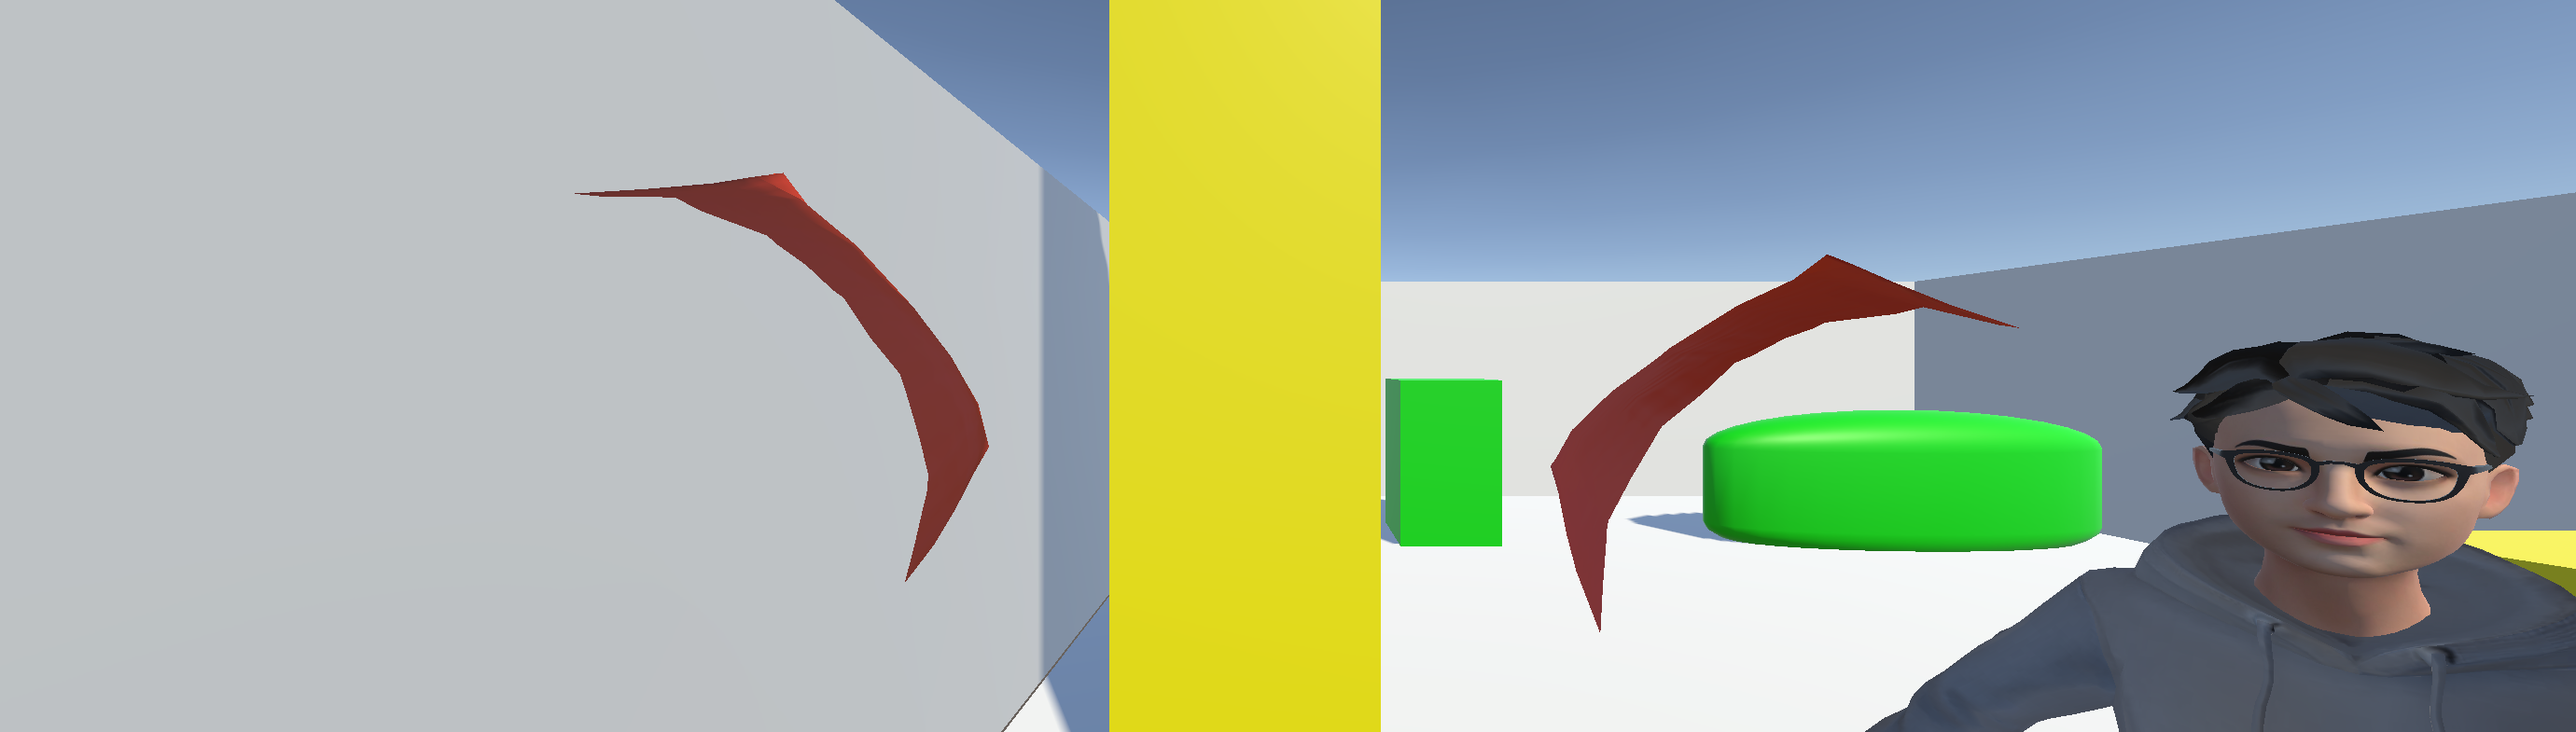
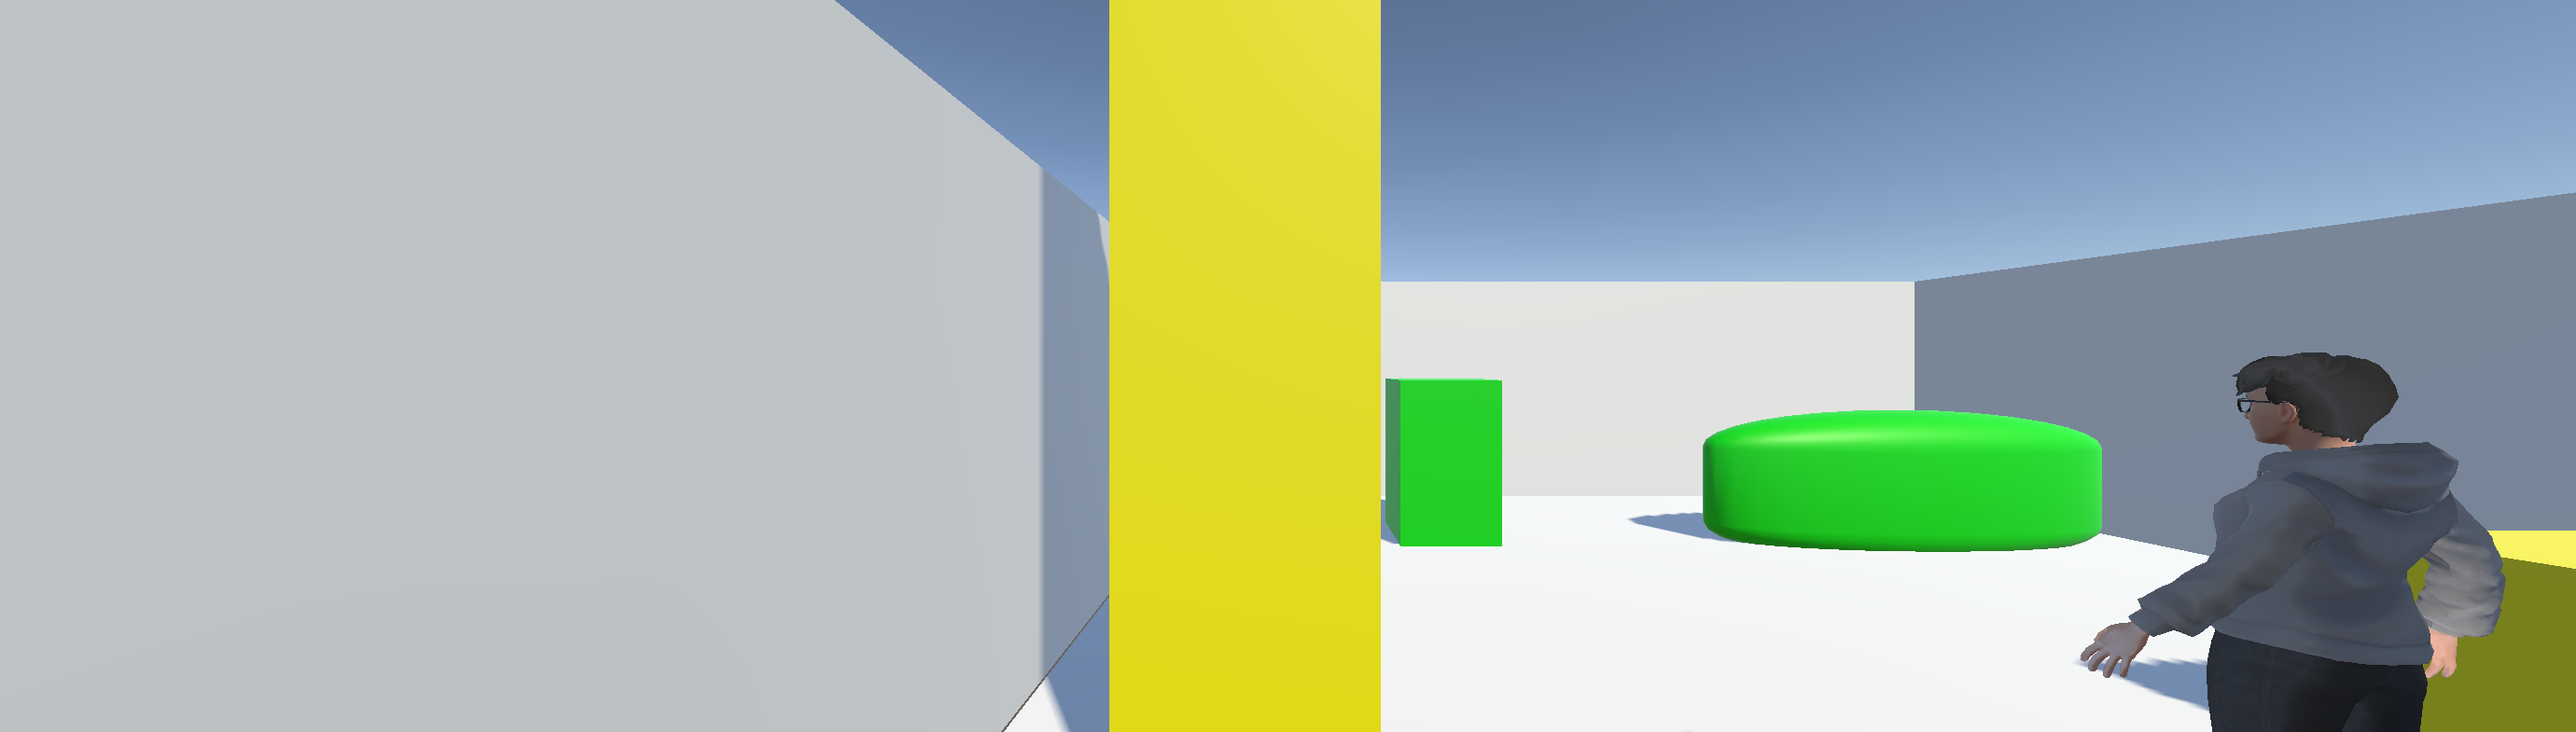
final guide follow positions set up

Changed region(s): [[0.7164, 0.428, 1.0, 1.0], [0.5918, 0.3363, 0.7787, 0.8561], [0.218, 0.2446, 0.4049, 0.7643]]

diff --git a/Assets/Scripts/GuideFollow.cs b/Assets/Scripts/GuideFollow.cs
@@ -9,46 +9,125 @@ public class GuideFollow : MonoBehaviour
     // Variables to hold scripts / components we need access to
     private SharedMovement m_SharedMovementScript;
     private RealtimeTransform realtimeTransform;
+    private AIGuide m_AIGuideScript;
 
     // Variables to control guide's following movements
     private float followDistance = 1.5f;
     private float followSpeed = 5.0f;
+    private float rotationSpeed = 5.0f; // might be causing the bouncy issue?
+    private float heightOffset = 0.2f;
+    public float guideHeight = 0f;
+    public float playerHeight = 0f;
+
+    // Agents and Game Objects
+    private NavMeshAgent agent;
+    private GameObject theGuide;
+    private GameObject thePlayer;
 
     // Monitoring bools
     private bool sharedMovementFound = false;
+    private bool aiGuideFound = false;
 
     private void Start()
     {
-        NavMeshAgent navMeshAgent = GetComponent<NavMeshAgent>();
-        if (navMeshAgent == null)
-            gameObject.AddComponent<NavMeshAgent>();
+        // Find or add necessary components
+        agent = gameObject.AddComponent<NavMeshAgent>();
+
+        gameObject.AddComponent<GuideModels>();
     }
     // Update is called once per frame
     void Update()
     {
-        // Calls until the shared movement script is assigned (when we have a player and a guide)
+        // Calls until the shared movement and AI Guide scripts are assigned (when we have a player and a guide)
         getSharedMovement();
+        getAIGuide();
+
         // Wait to request ownership until we have all players in scene + multiplayer room is definitely instantiated
         if (sharedMovementFound)
             requestOwnershipForGuide();
 
+        if (aiGuideFound && sharedMovementFound)
+        {
+            guideHeight = getAvatarHeight(theGuide);
+            playerHeight = getAvatarHeight(thePlayer);
+        }
+
         if (sharedMovementFound)
         {
-            AIGuide guide = FindObjectOfType<AIGuide>();
-            if (guide != null)
+            if (theGuide != null && thePlayer != null) // Making sure code is not run until both player and guide are in the scene
             {
-                if (m_SharedMovementScript.thePlayer != null)
+                // Set target position and rotation based on role
+                Vector3 targetPosition = theGuide.transform.position;
+                Quaternion targetRotation = theGuide.transform.rotation;
+
+                // Humanoid follow position - trailing after the player and facing them
+                if (m_AIGuideScript.role == 1 || m_AIGuideScript.role == 2)
                 {
                     // Calculate the target position based on the player's position and follow distance
-                    Vector3 directionToPlayer = (m_SharedMovementScript.thePlayer.transform.position - transform.position).normalized;
-                    Vector3 targetPosition = m_SharedMovementScript.thePlayer.transform.position - directionToPlayer * followDistance;
+                    Vector3 directionToPlayer = (thePlayer.transform.position - transform.position).normalized;
+                    targetPosition = thePlayer.transform.position - directionToPlayer * followDistance;
 
                     // Move towards the target position
                     transform.position = Vector3.MoveTowards(transform.position, targetPosition, followSpeed * Time.deltaTime);
 
                     // Make the guide look at the player while moving
-                    transform.LookAt(m_SharedMovementScript.thePlayer.transform);
+                    transform.LookAt(thePlayer.transform);
                 }
+
+                // Cane follow position - moving in front of the player and facing away
+                if (m_AIGuideScript.role == 3)
+                {
+                    // Calculate the position in front of the player
+                    Vector3 offset = thePlayer.transform.forward * followDistance;
+                    targetPosition = thePlayer.transform.position + offset;
+
+                    // Rotate to face away from the player (same direction the player is looking)
+                    targetRotation = thePlayer.transform.rotation;
+                }
+
+                // Dog follow position - moving at the right side of the player and facing the same direction as them
+                if (m_AIGuideScript.role == 4)
+                {
+                    // Calculate the position on the right side of the player
+                    Vector3 offset = thePlayer.transform.right * followDistance;
+                    targetPosition = thePlayer.transform.position + offset;
+
+                    // Rotate to face the same direction as the player
+                    targetRotation = thePlayer.transform.rotation;
+                }
+
+                // Bird and invisible guide follow position - moving at the right of the player's head and facing the same direction as them
+                if (m_AIGuideScript.role == 5 || m_AIGuideScript.role == 6)
+                {
+                    // Calculate the position to the right of the player, at the appropriate height
+                    Vector3 offset = thePlayer.transform.right * (followDistance * 0.5f);
+                    targetPosition = thePlayer.transform.position + offset + Vector3.up * (playerHeight + heightOffset - guideHeight / 2);
+                    transform.position = new Vector3(transform.position.x, transform.position.y + 1f, transform.position.z);
+
+                    // Rotate to face the same direction as the player
+                    targetRotation = thePlayer.transform.rotation;
+                }
+
+                if (agent.isOnNavMesh)
+                    agent.SetDestination(targetPosition);
+                else
+                {
+                    Debug.LogWarning("NavMeshAgent is not on the NavMesh. Trying to fix it.");
+
+                    // Attempt to place the agent on the NavMesh
+                    NavMeshHit hit;
+                    if (NavMesh.SamplePosition(transform.position, out hit, 1.0f, NavMesh.AllAreas))
+                    {
+                        transform.position = hit.position;
+                        agent.Warp(hit.position);
+                        agent.SetDestination(targetPosition);
+                    }
+                    else
+                        Debug.LogError("Failed to place NavMeshAgent on the NavMesh.");
+                }
+
+                // Smoothly rotate towards the target rotation
+                transform.rotation = Quaternion.Slerp(transform.rotation, targetRotation, rotationSpeed * Time.deltaTime);
             }
         }
     }
@@ -59,6 +138,17 @@ public class GuideFollow : MonoBehaviour
             m_SharedMovementScript = FindObjectOfType<SharedMovement>();
         else
             sharedMovementFound = true;
+
+        theGuide = m_SharedMovementScript.theGuide;
+        thePlayer = m_SharedMovementScript.thePlayer;
+    }
+
+    private void getAIGuide()
+    {
+        if (m_AIGuideScript == null)
+            m_AIGuideScript = FindObjectOfType<AIGuide>();
+        else
+            aiGuideFound = true;
     }
 
     private void requestOwnershipForGuide()
@@ -73,5 +163,21 @@ public class GuideFollow : MonoBehaviour
             if (realtimeTransform != null)
                 realtimeTransform.RequestOwnership();
         }
+    }
+
+    float getAvatarHeight(GameObject avatar)
+    {
+        SkinnedMeshRenderer[] renderers = theGuide.GetComponentsInChildren<SkinnedMeshRenderer>();
+        if (renderers.Length == 0)
+        {
+            Debug.LogWarning("No renderers found on the object.");
+            return 0;
+        }
+
+        Bounds combinedBounds = renderers[0].bounds;
+        foreach (SkinnedMeshRenderer renderer in renderers)
+            combinedBounds.Encapsulate(renderer.bounds);
+
+        return combinedBounds.size.y;
     }
 }

diff --git a/Assets/Scripts/GuideModels.cs b/Assets/Scripts/GuideModels.cs
@@ -1,0 +1,69 @@
+using System.Collections;
+using System.Collections.Generic;
+using UnityEngine;
+
+public class GuideModels : MonoBehaviour
+{
+    // Variables to hold scripts / components we need access to
+    private SharedMovement m_SharedMovementScript;
+    private AIGuide m_AIGuideScript;
+
+    // Game Objects we use to manage guide appearance
+    private GameObject theGuide;
+
+    // Start is called before the first frame update
+    void Start()
+    {
+        
+    }
+
+    // Update is called once per frame
+    void Update()
+    {
+        // Calls until the shared movement and AI Guide scripts are assigned (when we have a player and a guide)
+        getSharedMovement();
+        getAIGuide();
+
+        // If we have the guide and access to its role, we can alter appearances
+        if (theGuide != null && m_AIGuideScript != null)
+        {
+            // If invisible, disabled renderers - enable them otherwise
+            if (m_AIGuideScript.role == 6)
+                DisableRenderers(theGuide);
+            else
+                EnableRenderers(theGuide);
+
+            // Code for switching between models / animations based on role
+        }
+    }
+
+    private void getSharedMovement()
+    {
+        if (m_SharedMovementScript == null)
+            m_SharedMovementScript = FindObjectOfType<SharedMovement>();
+
+        theGuide = m_SharedMovementScript.theGuide;
+    }
+
+    private void getAIGuide()
+    {
+        if (m_AIGuideScript == null)
+            m_AIGuideScript = FindObjectOfType<AIGuide>();
+    }
+
+    private void DisableRenderers(GameObject theGuide)
+    {
+        // Disable all Renderer components on the guide
+        SkinnedMeshRenderer[] renderers = theGuide.GetComponentsInChildren<SkinnedMeshRenderer>();
+        foreach (SkinnedMeshRenderer renderer in renderers)
+            renderer.enabled = false;
+    }
+
+    private void EnableRenderers(GameObject theGuide)
+    {
+        // Disable all Renderer components on the guide
+        SkinnedMeshRenderer[] renderers = theGuide.GetComponentsInChildren<SkinnedMeshRenderer>();
+        foreach (SkinnedMeshRenderer renderer in renderers)
+            renderer.enabled = true;
+    }
+}
